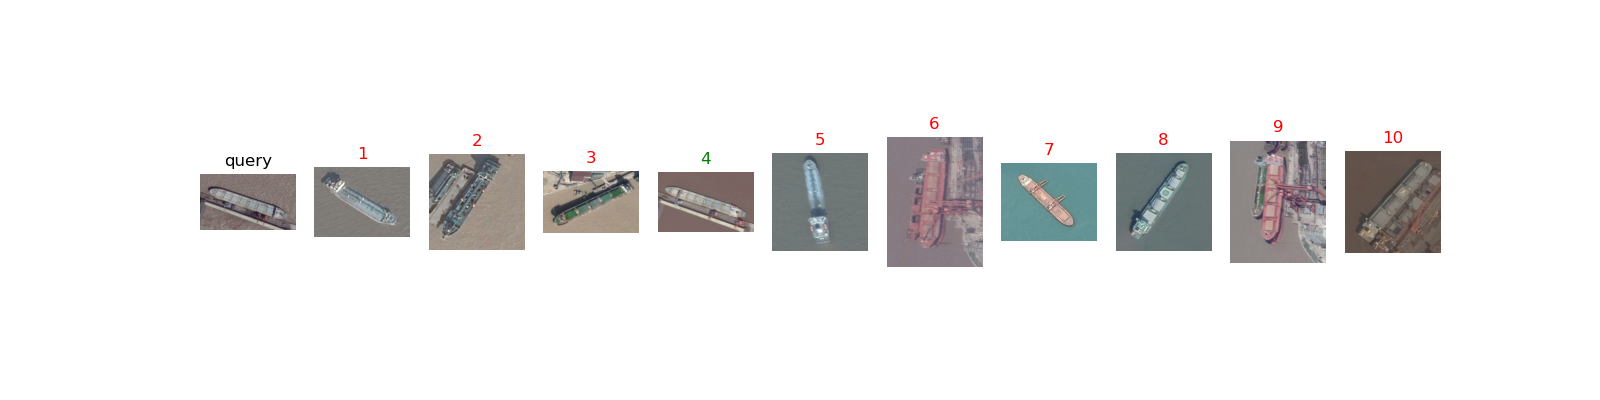
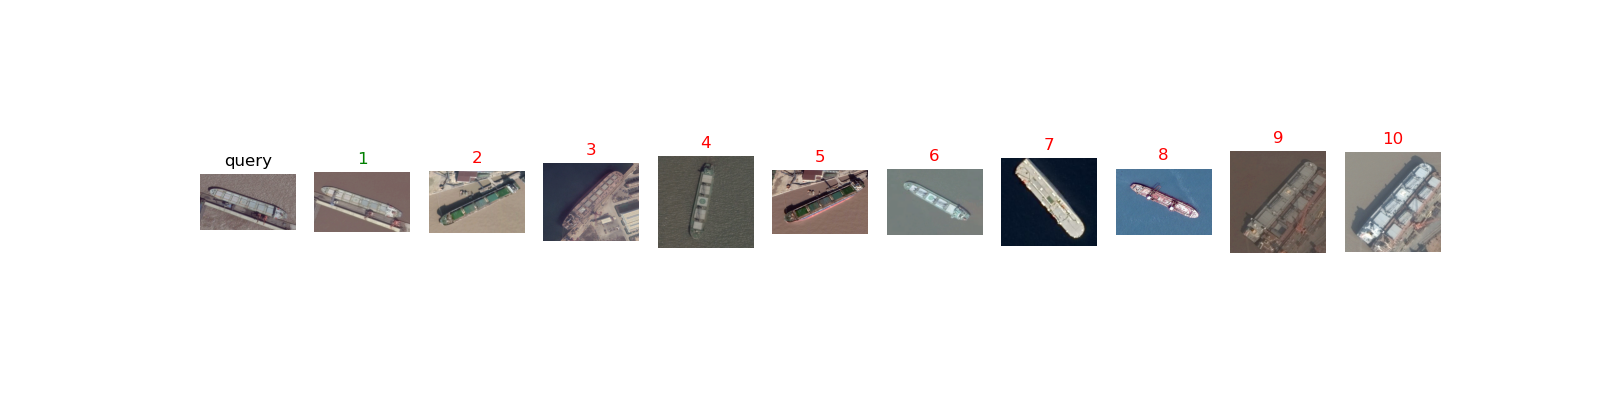
20221015

Changed region(s): [[0.1875, 0.3, 0.9062, 0.69]]

diff --git a/devidenew-ljl.py b/devidenew-ljl.py
@@ -1,0 +1,197 @@
+"""
+author:Jessie
+data:2022-05-12
+update:2022-10-14
+"""
+import argparse
+from genericpath import isdir
+import os
+import shutil
+import random
+import numpy as np
+from torch import rand, seed
+
+# You need to change this path to your img dir
+img_root_path = "/home/ljl/Data/REID/ORS_REID"
+
+if not os.path.isdir(img_root_path):
+    print("please change the root_path")
+
+img_grouped_path = img_root_path + "/all/merge"
+
+total_img_num = 0
+total_img_index = []
+for root, dirs, files in os.walk(img_grouped_path, topdown=True):
+    for dir in dirs:
+        total_img_num += 1
+        total_img_index.append(int(dir))
+print("total img num: ", total_img_num)
+
+# --------------------------------
+# Options
+# --------------------------------
+praser = argparse.ArgumentParser(
+    description="divided into training set and testing set"
+)
+praser.add_argument(
+    "--odd_even",
+    action="store_true",
+    help="wether to use odd_even mode to divide the data",
+)
+praser.add_argument("--ratio", default=0.8, type=float, help="the ratio of division")
+
+opt = praser.parse_args()
+
+# ratio mode
+# python dividenew-ljl.py --ratio <your ratio>
+
+# odd_even mode
+# python dividenew-ljl.py --odd_even
+
+if opt.odd_even:
+    img_root_path_oe = img_root_path + "/ORS_REID_OE"
+    # --------------------------------
+    # 以单双号划分训练，测试集
+    # --------------------------------
+    # gallery（odd）--testing set
+    gallery_path = img_root_path_oe + "/gallery"
+    if not os.path.isdir(gallery_path):
+        os.mkdir(gallery_path)
+    target_root_path = gallery_path
+    for root, dirs, files in os.walk(img_grouped_path, topdown=True):
+        for dir in dirs:
+            if (int(dir) % 2) != 0:
+                src_path = os.path.join(root, dir)
+                tar_path = target_root_path + "/" + dir
+                if os.path.isdir(tar_path):
+                    shutil.rmtree(tar_path)
+                if not os.path.isdir(tar_path):
+                    shutil.copytree(src_path, tar_path)
+
+    # --------------------------------
+    # train_all（even）--training set
+    trainall_path = img_root_path_oe + "/train_all"
+    if not os.path.isdir(trainall_path):
+        os.mkdir(trainall_path)
+    target_root_path = trainall_path
+    for root, dirs, files in os.walk(img_grouped_path, topdown=True):
+        for dir in dirs:
+            if (int(dir) % 2) == 0:
+                src_path = os.path.join(root, dir)
+                tar_path = target_root_path + "/" + dir
+                if os.path.isdir(tar_path):
+                    shutil.rmtree(tar_path)
+                if not os.path.isdir(tar_path):
+                    shutil.copytree(src_path, tar_path)
+else:
+    img_root_path_dvd = img_root_path + "/ORS_REID_DVD"
+    if not os.path.isdir(img_root_path_dvd):
+        os.mkdir(img_root_path_dvd)
+    # --------------------------------
+    # 以给定比例划分训练，测试集
+    # --------------------------------
+    random.seed(1)
+
+    train_ratio = opt.ratio
+    train_num = round(train_ratio * total_img_num)
+    train_index = random.sample(range(1, total_img_num), train_num)
+    print("train_num: ", len(train_index))
+    print("train_index: ", train_index)
+
+    test_ratio = 1 - train_ratio
+    test_num = total_img_num - train_num
+    mask = np.in1d(total_img_index, train_index, invert=True)
+    test_index = np.array(total_img_index)[mask]
+    print("test_num: ", len(test_index))
+    print("test_index: ", test_index)
+    # --------------------------------
+    # gallery --testing set
+    gallery_path = img_root_path_dvd + "/gallery"
+    if not os.path.isdir(gallery_path):
+        os.mkdir(gallery_path)
+    target_root_path = gallery_path
+    for root, dirs, files in os.walk(img_grouped_path, topdown=True):
+        for dir in dirs:
+            if int(dir) in test_index:
+                src_path = os.path.join(root, dir)
+                tar_path = target_root_path + "/" + dir
+                if os.path.isdir(tar_path):
+                    shutil.rmtree(tar_path)
+                if not os.path.isdir(tar_path):
+                    shutil.copytree(src_path, tar_path)
+    # --------------------------------
+    # train_all --training set
+    trainall_path = img_root_path_dvd + "/train_all"
+    if not os.path.isdir(trainall_path):
+        os.mkdir(trainall_path)
+    target_root_path = trainall_path
+    for root, dirs, files in os.walk(img_grouped_path, topdown=True):
+        for dir in dirs:
+            if int(dir) in train_index:
+                src_path = os.path.join(root, dir)
+                tar_path = target_root_path + "/" + dir
+                if os.path.isdir(tar_path):
+                    shutil.rmtree(tar_path)
+                if not os.path.isdir(tar_path):
+                    shutil.copytree(src_path, tar_path)
+
+# --------------------------------
+# 从gallery中分出query
+if opt.odd_even:
+    query_path = img_root_path_oe + "/query"
+else:
+    query_path = img_root_path_dvd + "/query"
+
+if not os.path.isdir(query_path):
+    os.mkdir(query_path)
+
+for root, dirs, files in os.walk(gallery_path, topdown=True):
+    for dir in dirs:
+        for rootin, dirsin, filesin in os.walk(
+            os.path.join(gallery_path, dir), topdown=True
+        ):
+            i = 0
+            for name in filesin:
+                if not name[-3:] == "png":
+                    continue
+                if i == 0:
+                    ID = name.split("_")
+                    src = os.path.join(rootin, name)
+                    tar = query_path + "/" + ID[0]
+                    if os.path.isdir(tar):
+                        shutil.rmtree(tar)
+                    if not os.path.isdir(tar):
+                        os.mkdir(tar)
+                    shutil.copyfile(src, tar + "/" + name)
+                    i += 1
+
+# --------------------------------
+# 从train_all中分出train,val
+if opt.odd_even:
+    train_path = img_root_path_oe + "/train"
+    val_path = img_root_path_oe + "/val"
+else:
+    train_path = img_root_path_dvd + "/train"
+    val_path = img_root_path_dvd + "/val"
+
+if not os.path.isdir(train_path):
+    os.mkdir(train_path)
+if not os.path.isdir(val_path):
+    os.mkdir(val_path)
+
+for root, dirs, files in os.walk(trainall_path, topdown=True):
+    for dir in dirs:
+        for rootin, dirsin, filesin in os.walk(
+            os.path.join(trainall_path, dir), topdown=True
+        ):
+            for name in filesin:
+                if not name[-3:] == "png":
+                    continue
+                ID = name.split("_")
+                src = os.path.join(rootin, name)
+                tar = train_path + "/" + ID[0]
+                if not os.path.isdir(tar):
+                    os.mkdir(tar)
+                    tar = val_path + "/" + ID[0]
+                    os.mkdir(tar)
+                shutil.copyfile(src, tar + "/" + name)

diff --git a/model.py b/model.py
@@ -127,6 +127,50 @@ class ft_net(nn.Module):
         return x
 
 
+# Define the ResNet18-based Model
+class ft_net18(nn.Module):
+    def __init__(
+        self,
+        class_num=751,
+        droprate=0.5,
+        stride=2,
+        circle=False,
+        ibn=False,
+        linear_num=512,
+    ):
+        # def __init__(self, class_num=751, droprate=0.5, stride=2, circle=False, ibn=False, linear_num=512):
+        super(ft_net18, self).__init__()
+        model_ft = models.resnet18(pretrained=True)
+        if ibn == True:
+            model_ft = torch.hub.load(
+                "XingangPan/IBN-Net", "resnet50_ibn_a", pretrained=True
+            )
+        # avg pooling to global pooling
+        if stride == 1:
+            model_ft.layer4[0].downsample[0].stride = (1, 1)
+            model_ft.layer4[0].conv2.stride = (1, 1)
+        model_ft.avgpool = nn.AdaptiveAvgPool2d((1, 1))
+        self.model = model_ft
+        self.circle = circle
+        self.classifier = ClassBlock(
+            512, class_num, droprate, linear=linear_num, return_f=circle
+        )
+
+    def forward(self, x):
+        x = self.model.conv1(x)
+        x = self.model.bn1(x)
+        x = self.model.relu(x)
+        x = self.model.maxpool(x)
+        x = self.model.layer1(x)
+        x = self.model.layer2(x)
+        x = self.model.layer3(x)
+        x = self.model.layer4(x)
+        x = self.model.avgpool(x)
+        x = x.view(x.size(0), x.size(1))
+        x = self.classifier(x)
+        return x
+
+
 # Define the swin_base_patch4_window7_224 Model
 # pytorch > 1.6
 class ft_net_swin(nn.Module):
@@ -363,10 +407,11 @@ python model.py
 if __name__ == "__main__":
     # Here I left a simple forward function.
     # Test the model, before you train it.
-    net = ft_net(751)
+    net = ft_net(74)
+    # net = ft_net(751)
     # net = ft_net_hr(751)
-
     # net = ft_net_swin(751, stride=1)
+
     net.classifier = nn.Sequential()
     print(net)
     input = Variable(torch.FloatTensor(8, 3, 224, 224))

diff --git a/test18.py b/test18.py
@@ -19,6 +19,7 @@ import yaml
 import math
 from model import (
     ft_net,
+    ft_net18,
     ft_net_dense,
     ft_net_hr,
     ft_net_swin,
@@ -57,7 +58,7 @@ parser.add_argument(
 # )  # 需要修改
 
 parser.add_argument(
-    "--name", default="ft_ResNet50_trainA", type=str, help="save model path"
+    "--name", default="ft_ResNet18_trainAe20", type=str, help="save model path"
 )  # 注意
 parser.add_argument("--batchsize", default=256, type=int, help="batchsize")  # 可以修改
 parser.add_argument(
@@ -345,7 +346,7 @@ elif opt.use_efficient:
 elif opt.use_hr:
     model_structure = ft_net_hr(opt.nclasses, linear_num=opt.linear_num)
 else:
-    model_structure = ft_net(
+    model_structure = ft_net18(
         opt.nclasses, stride=opt.stride, ibn=opt.ibn, linear_num=opt.linear_num
     )
 

diff --git a/train18.py b/train18.py
@@ -20,6 +20,7 @@ import time
 import os
 from model import (
     ft_net,
+    ft_net18,
     ft_net_dense,
     ft_net_hr,
     ft_net_swin,
@@ -58,7 +59,7 @@ parser.add_argument(
     "--gpu_ids", default="0", type=str, help="gpu_ids: e.g. 0  0,1,2  0,2"
 )
 parser.add_argument(
-    "--name", default="ft_ResNet50_trainA", type=str, help="output model name"
+    "--name", default="ft_ResNet18_trainAe20", type=str, help="output model name"
 )
 parser.add_argument(
     "--data_dir",
@@ -590,7 +591,7 @@ elif opt.use_hr:
         len(class_names), opt.droprate, circle=return_feature, linear_num=opt.linear_num
     )
 else:
-    model = ft_net(
+    model = ft_net18(
         len(class_names),
         opt.droprate,
         opt.stride,

diff --git a/read_mat.py b/read_mat.py
@@ -1,0 +1,12 @@
+"""
+author:Jessie
+date:2022-10-06
+founction:read .mat file
+"""
+
+import scipy.io as io
+
+data = io.loadmat("./pytorch_result.mat")
+print(data.keys())
+print("query_label： ", data["query_label"])
+print("query_cam： ", data["query_cam"])

diff --git a/demo.py b/demo.py
@@ -136,4 +136,4 @@ except RuntimeError:
         "If you want to see the visualization of the ranking result, graphical user interface is needed."
     )
 
-fig.savefig("show.png")
+fig.savefig("show18e20.png")
